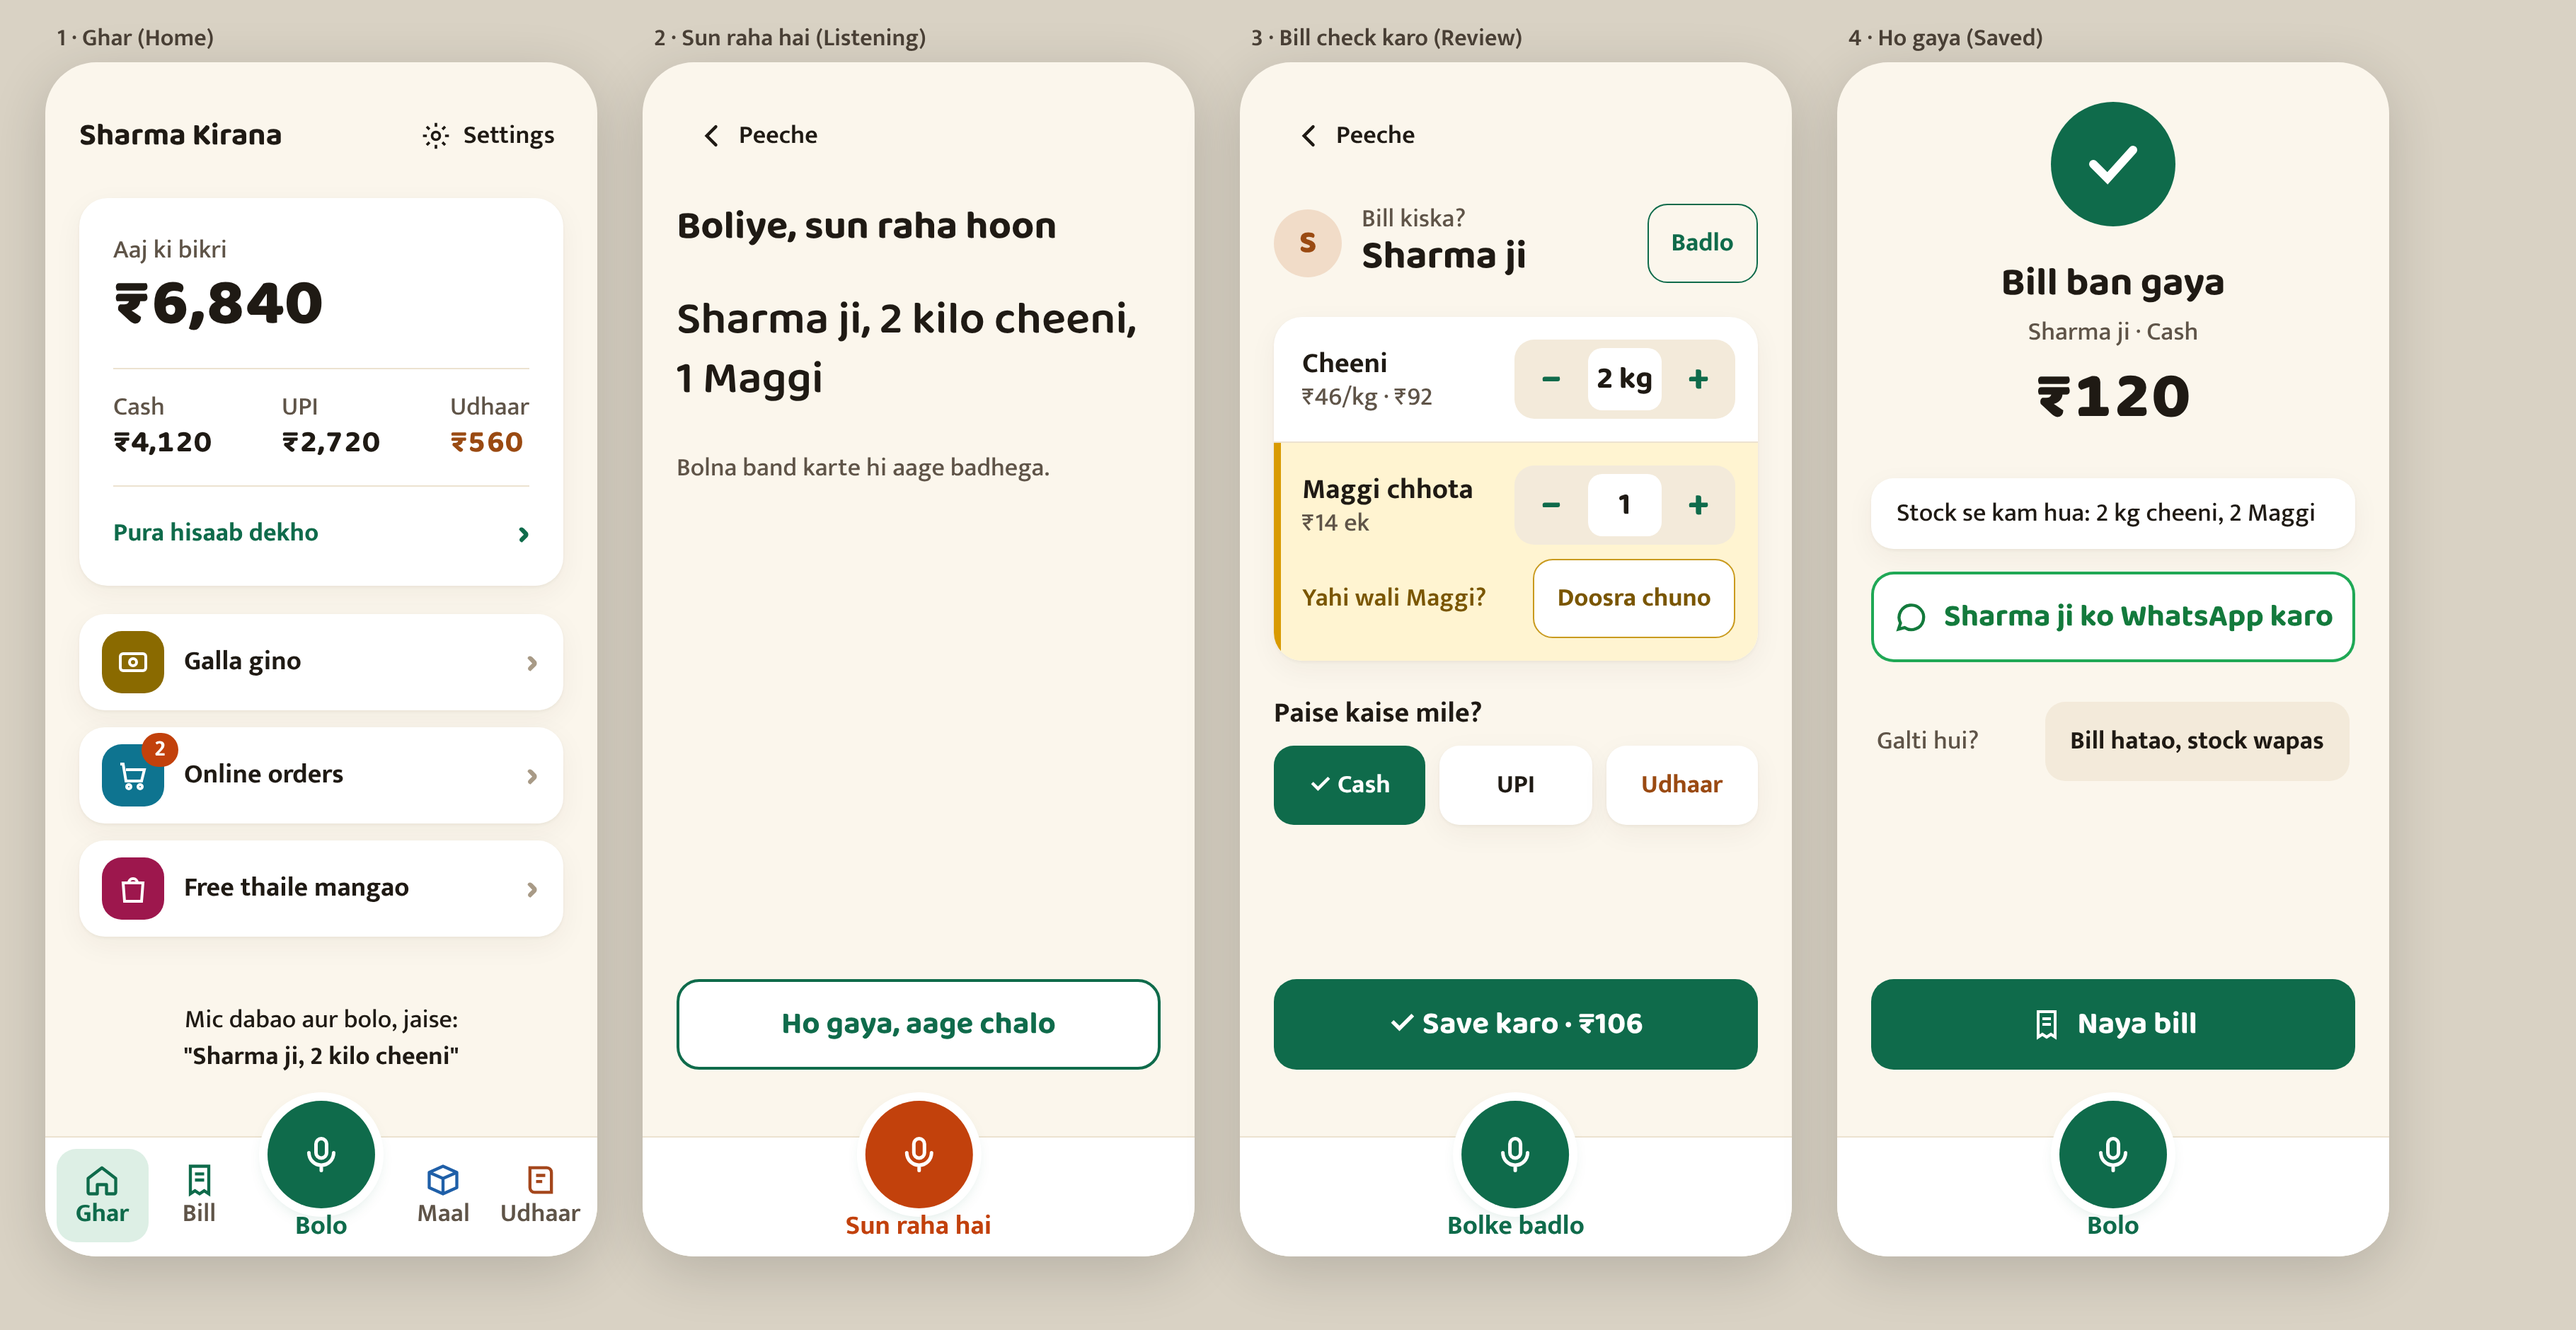
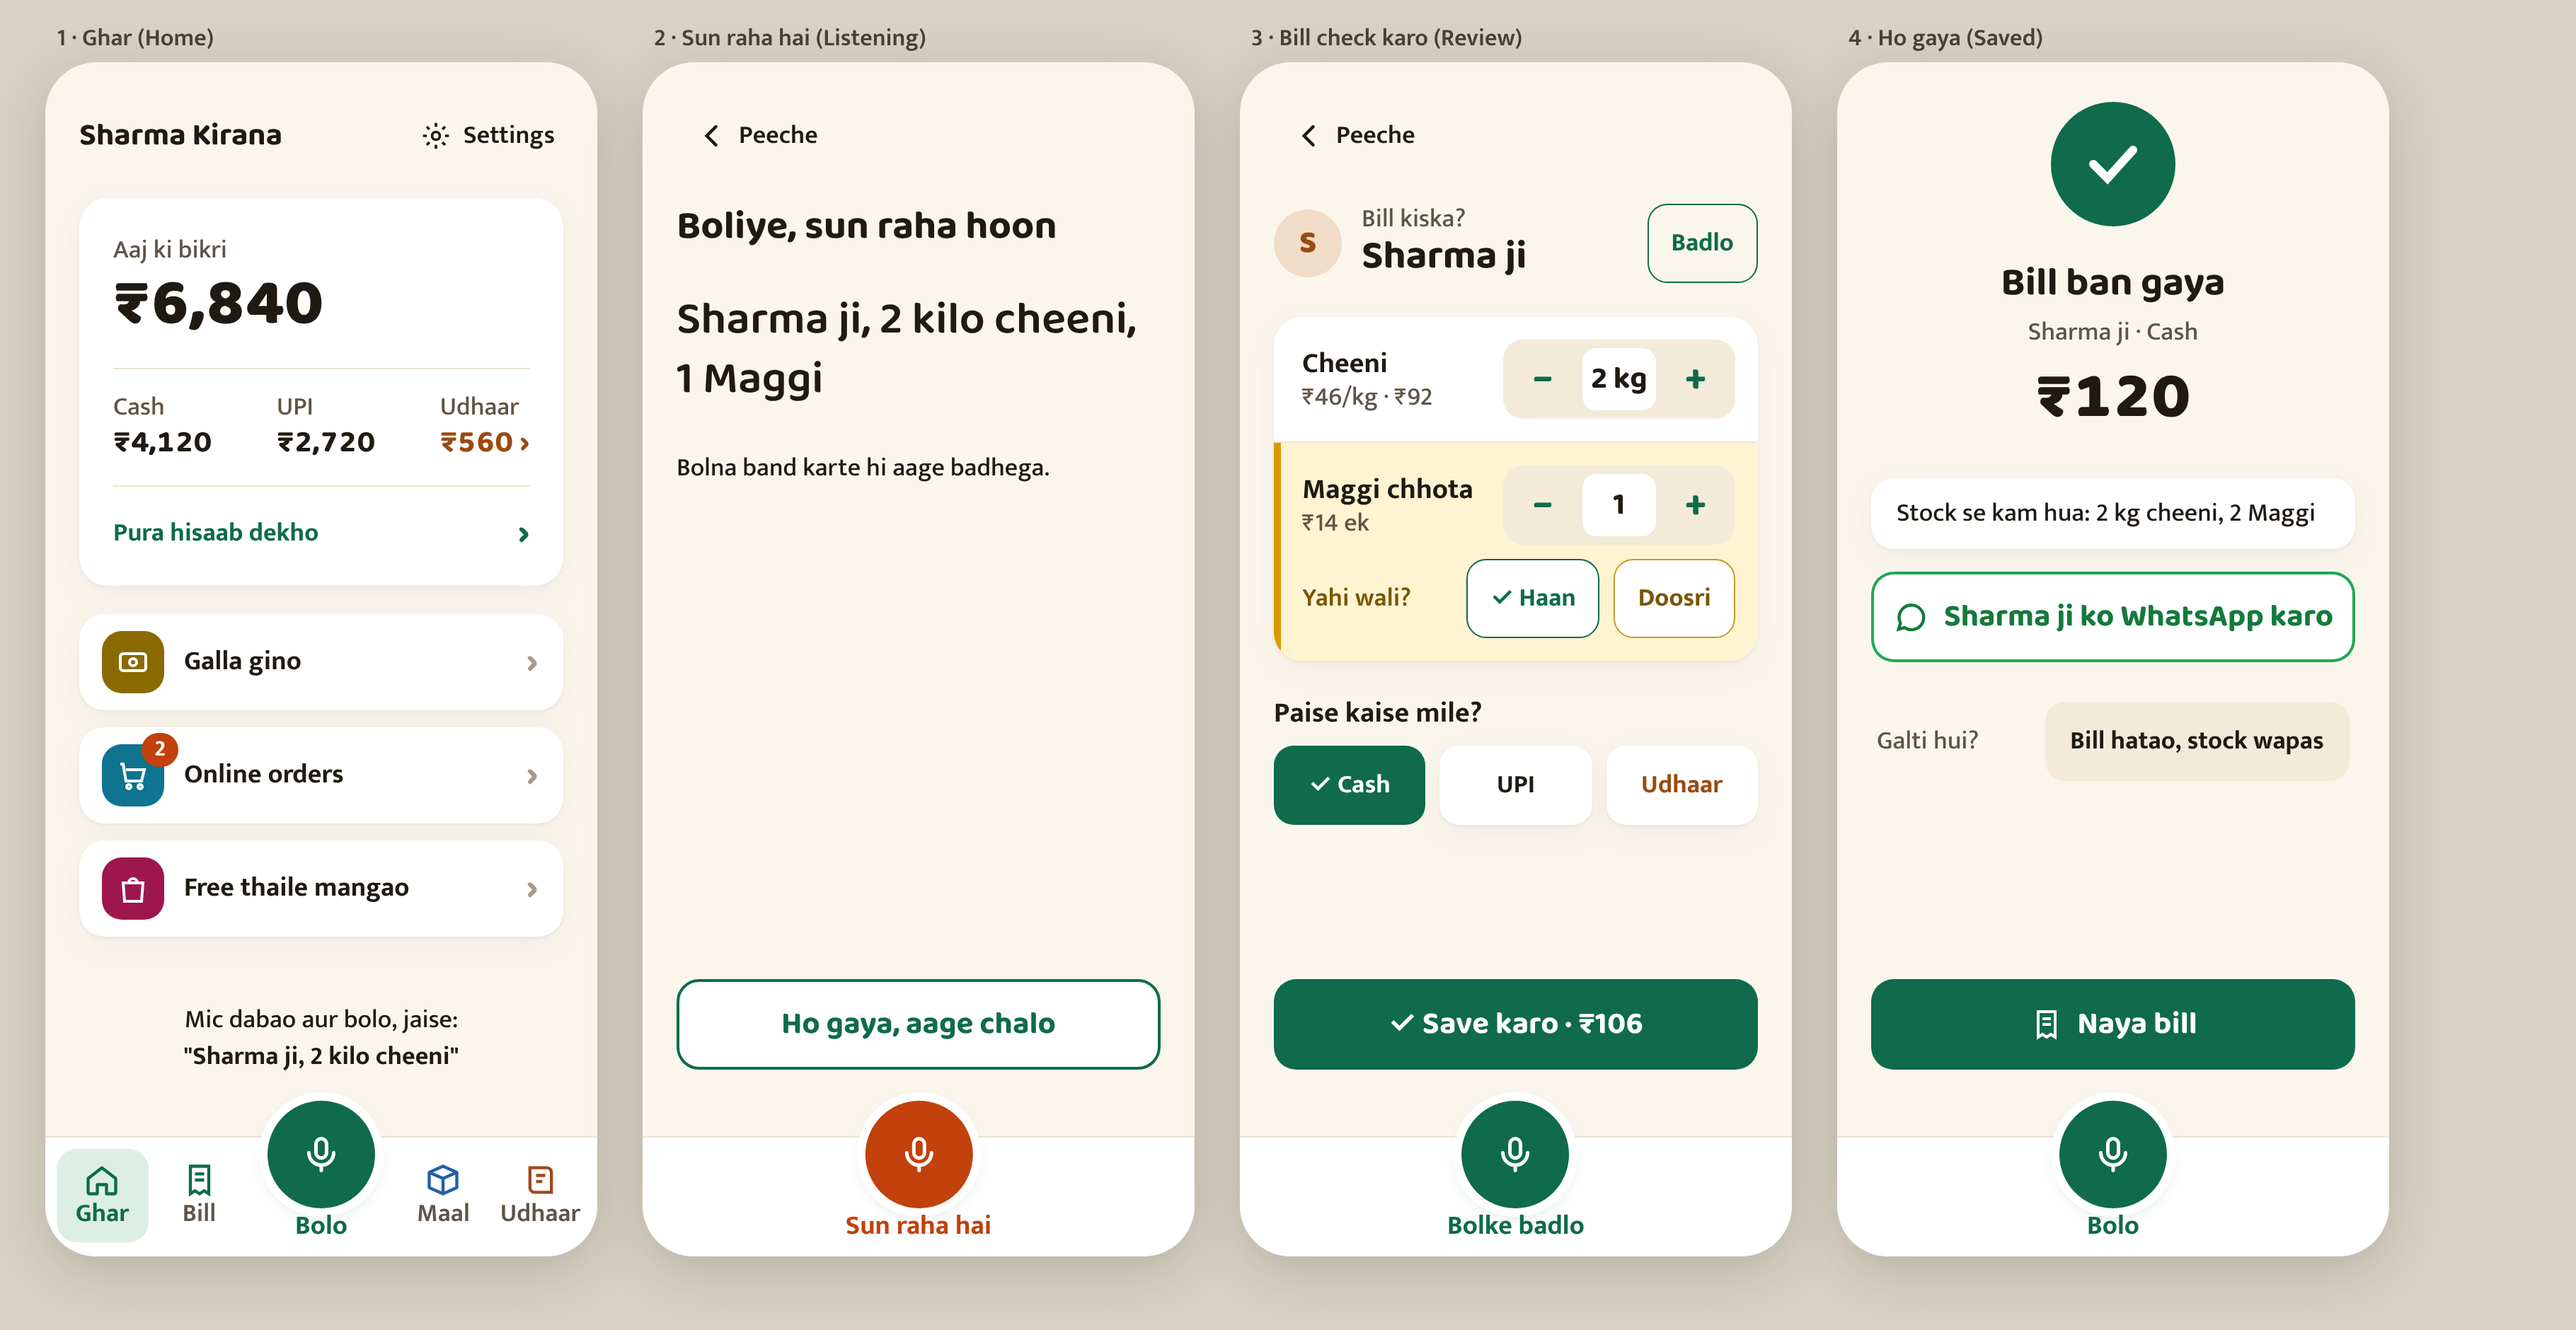
Design: owner-test round 3 fixes (explicit Haan/Doosri, bigger steppers, tappable udhaar)
Claude-Session: https://claude.ai/code/session_01Dc9KGnrAUXnUwkJ5n5yUhd

diff --git a/design/preview.html b/design/preview.html
@@ -42,7 +42,7 @@
 .it+.it{border-top:1px solid var(--line)}
 .nm{font-weight:700;font-size:20px;line-height:26px}.pr{color:var(--ink2);line-height:22px}
 .step{display:flex;align-items:center;border-radius:14px;height:56px;overflow:hidden;background:var(--s2);flex:none}
-.step i{width:52px;height:56px;display:grid;place-items:center;font:700 28px 'Baloo 2';color:var(--ac);font-style:normal}
+.step i{width:56px;height:56px;display:grid;place-items:center;font:700 28px 'Baloo 2';color:var(--ac);font-style:normal}
 .step em{min-width:52px;text-align:center;font:700 22px 'Baloo 2';font-style:normal;background:#fff;height:44px;line-height:44px;border-radius:10px}
 .u{background:var(--uns);display:block;box-shadow:inset 5px 0 0 var(--unsb)}
 .ask{color:#7A5600;font-weight:700;margin-bottom:12px}
@@ -53,7 +53,7 @@
 .pb.on{background:var(--acs);color:var(--ac);box-shadow:inset 0 0 0 2px var(--ac)}
 /* listening + saved */
 .live{font:600 32px/42px 'Baloo 2';margin-top:28px}.live .dim{color:#BBAE9B}
-.note{color:var(--ink2);margin-top:28px}
+.note{color:var(--ink);margin-top:28px}
 .ok{display:flex;flex-direction:column;align-items:center;text-align:center;margin-top:28px}
 .okc{width:88px;height:88px;border-radius:50%;background:var(--ac);display:grid;place-items:center}
 .changed{display:flex;align-items:center;justify-content:space-between;gap:12px;background:var(--s);border-radius:16px;box-shadow:var(--sh);padding:12px 12px 12px 18px;margin-top:32px}
@@ -83,6 +83,7 @@
 .guess{display:flex;justify-content:space-between;align-items:center;margin-top:10px}
 .gtxt{color:#7A5600;font-weight:600;font-size:18px}
 .chg{white-space:nowrap;height:56px;padding:0 16px;border-radius:14px;border:1.5px solid #C99A1E;color:#7A5600;display:flex;align-items:center;font-weight:700;background:#fff}
+.chg.yes{border-color:var(--ac);color:var(--ac)}
 </style></head><body>
 <svg width="0" height="0" style="position:absolute"><defs>
 <symbol id="mic" viewBox="0 0 24 24" fill="none" stroke="currentColor" stroke-width="2" stroke-linecap="round"><rect x="9" y="3" width="6" height="11" rx="3"/><path d="M5 11a7 7 0 0 0 14 0M12 18v3"/></symbol>
@@ -103,7 +104,7 @@
 <div class="wrap"><div class="cap">1 · Ghar (Home)</div><div class="ph"><div class="top"><div class="store">Sharma Kirana</div><div class="ghost"><svg width="22" height="22"><use href="#gear"/></svg>Settings</div></div>
 <div class="pad">
 <div class="sales"><div class="lab">Aaj ki bikri</div><div class="big">₹6,840</div>
-<div class="three"><div><div class="lab">Cash</div><div class="num">₹4,120</div></div><div><div class="lab">UPI</div><div class="num">₹2,720</div></div><div><div class="lab">Udhaar</div><div class="num" style="color:var(--ud)">₹560</div></div></div>
+<div class="three"><div><div class="lab">Cash</div><div class="num">₹4,120</div></div><div><div class="lab">UPI</div><div class="num">₹2,720</div></div><div><div class="lab">Udhaar</div><div class="num" style="color:var(--ud)">₹560 ›</div></div></div>
 <div class="more"><span>Pura hisaab dekho</span><span style="font:700 26px 'Baloo 2'">›</span></div></div>
 <div class="rows"><div class="rowb"><div class="chipw"><div class="chip" style="background:var(--c-gal)"><svg width="24" height="24"><use href="#cash"/></svg></div></div><div class="grow">Galla gino</div><div class="chev">›</div></div><div class="rowb"><div class="chipw"><div class="chip" style="background:var(--c-ord)"><svg width="24" height="24"><use href="#cart"/></svg></div><span class="badge">2</span></div><div class="grow">Online orders</div><div class="chev">›</div></div><div class="rowb"><div class="chipw"><div class="chip" style="background:var(--c-bag)"><svg width="24" height="24"><use href="#bag"/></svg></div></div><div class="grow">Free thaile mangao</div><div class="chev">›</div></div></div>
 </div>
@@ -121,7 +122,7 @@
 <div class="items">
 <div class="it"><div><div class="nm">Cheeni</div><div class="pr">₹46/kg · ₹92</div></div><div class="step"><i>−</i><em>2 kg</em><i>+</i></div></div>
 <div class="it u"><div class="qrow" style="margin:0"><div><div class="nm">Maggi chhota</div><div class="pr">₹14 ek</div></div><div class="step"><i>−</i><em>1</em><i>+</i></div></div>
-<div class="guess"><span class="gtxt">Yahi wali Maggi?</span><div class="chg">Doosra chuno</div></div></div>
+<div class="guess"><span class="gtxt">Yahi wali?</span><div style="display:flex;gap:10px"><div class="chg yes">✓ Haan</div><div class="chg">Doosri</div></div></div></div>
 </div>
 <div class="sec">Paise kaise mile?</div>
 <div class="pay"><div class="pb on">✓ Cash</div><div class="pb">UPI</div><div class="pb ud">Udhaar</div></div>
